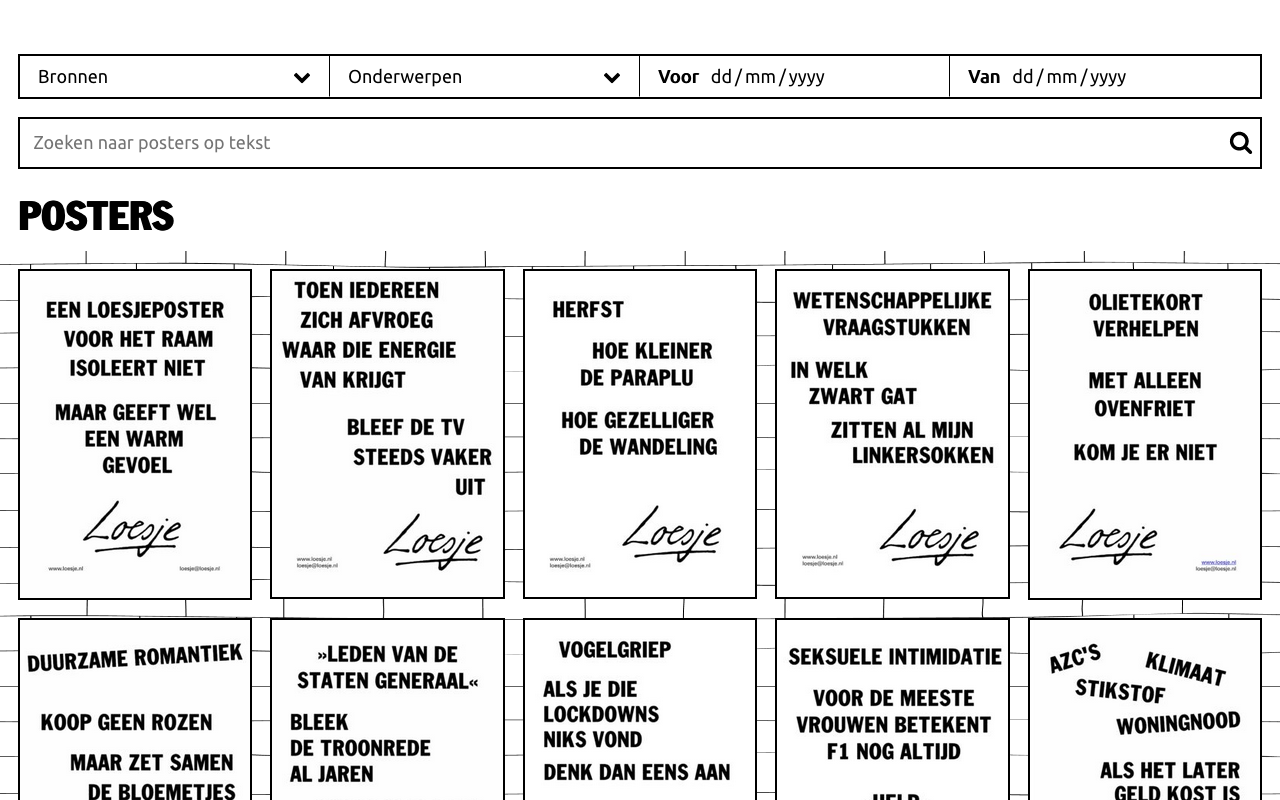
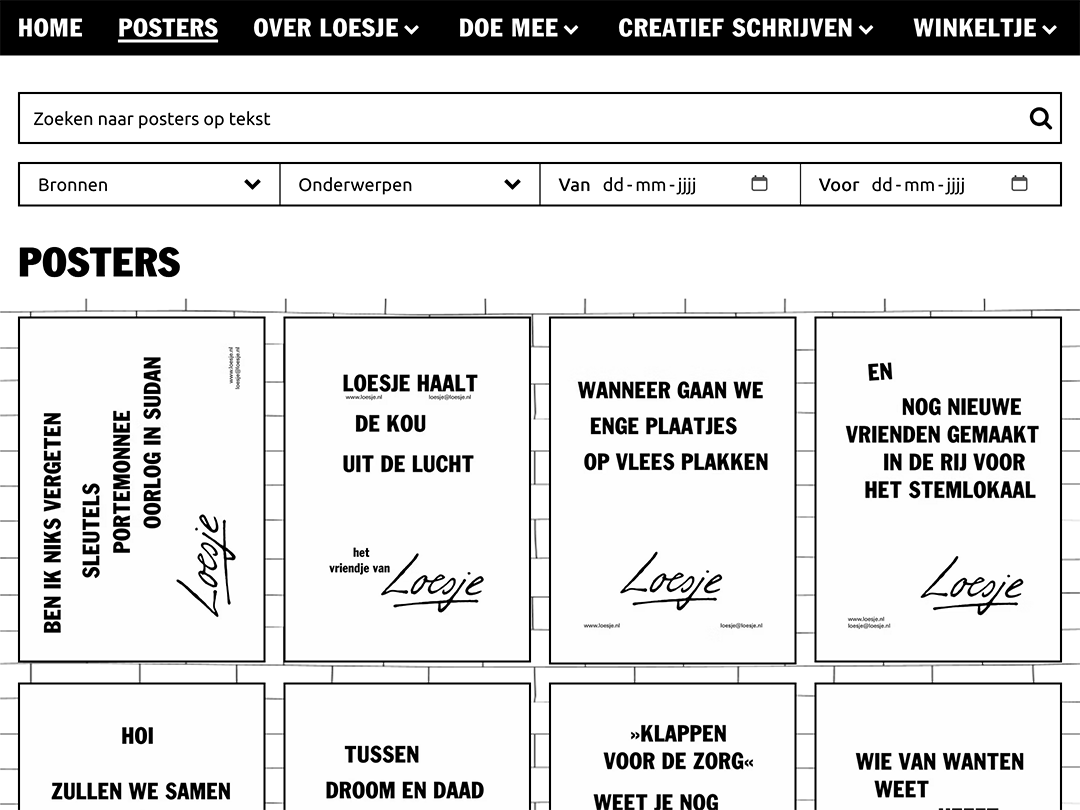
add screenshots

Changed region(s): [[0.0, 0.0, 1.0, 1.0]]

diff --git a/nuxt.config.ts b/nuxt.config.ts
@@ -456,43 +456,43 @@ export default defineNuxtConfig({
       prefer_related_applications: false,
       related_applications: [
         {
-          platform: 'itunes',
+          form_factor: 'itunes',
           url: 'https://apps.apple.com/nl/app/loesje-posters/id910472463?l=nl&amp;ls=1',
           id: 'loesje-posters',
         },
       ],
-      // screenshots: [
-      //   {
-      //     src: '/screenshots/screenshot-1-wide.png',
-      //     sizes: '1280x800',
-      //     type: 'image/png',
-      //     platform: 'wide',
-      //     label:
-      //       'Met deze app kan je lekker door al haar posters heen kuieren. Gewoon doelloos rondneuzen of heel gericht zoeken.',
-      //   },
-      //   {
-      //     src: '/screenshots/screenshot-2-wide.png',
-      //     sizes: '1280x800',
-      //     type: 'image/png',
-      //     platform: 'wide',
-      //     label: 'Alle uitspraken van Loesje zijn hier te vinden.',
-      //   },
-      //   {
-      //     src: '/screenshots/screenshot-1-narrow.png',
-      //     sizes: '750x1334',
-      //     type: 'image/png',
-      //     platform: 'narrow',
-      //     label:
-      //       'Met deze app kan je lekker door al haar posters heen kuieren. Gewoon doelloos rondneuzen of heel gericht zoeken.',
-      //   },
-      //   {
-      //     src: '/screenshots/screenshot-1-narrow.png',
-      //     sizes: '750x1334',
-      //     type: 'image/png',
-      //     platform: 'narrow',
-      //     label: 'Alle uitspraken van Loesje zijn hier te vinden.',
-      //   },
-      // ],
+      screenshots: [
+        {
+          src: '/screenshots/screenshot-1-wide.png',
+          sizes: '1080×810',
+          type: 'image/png',
+          form_factor: 'wide',
+          label:
+            'Met deze app kan je lekker door al haar posters heen kuieren. Gewoon doelloos rondneuzen of heel gericht zoeken.',
+        },
+        {
+          src: '/screenshots/screenshot-2-wide.png',
+          sizes: '1080×810',
+          type: 'image/png',
+          form_factor: 'wide',
+          label: 'Alle uitspraken van Loesje zijn hier te vinden.',
+        },
+        {
+          src: '/screenshots/screenshot-1-narrow.png',
+          sizes: '860×1864',
+          type: 'image/png',
+          form_factor: 'narrow',
+          label:
+            'Met deze app kan je lekker door al haar posters heen kuieren. Gewoon doelloos rondneuzen of heel gericht zoeken.',
+        },
+        {
+          src: '/screenshots/screenshot-1-narrow.png',
+          sizes: '860×1864',
+          type: 'image/png',
+          form_factor: 'narrow',
+          label: 'Alle uitspraken van Loesje zijn hier te vinden.',
+        },
+      ],
 
       protocol_handlers: [
         {
